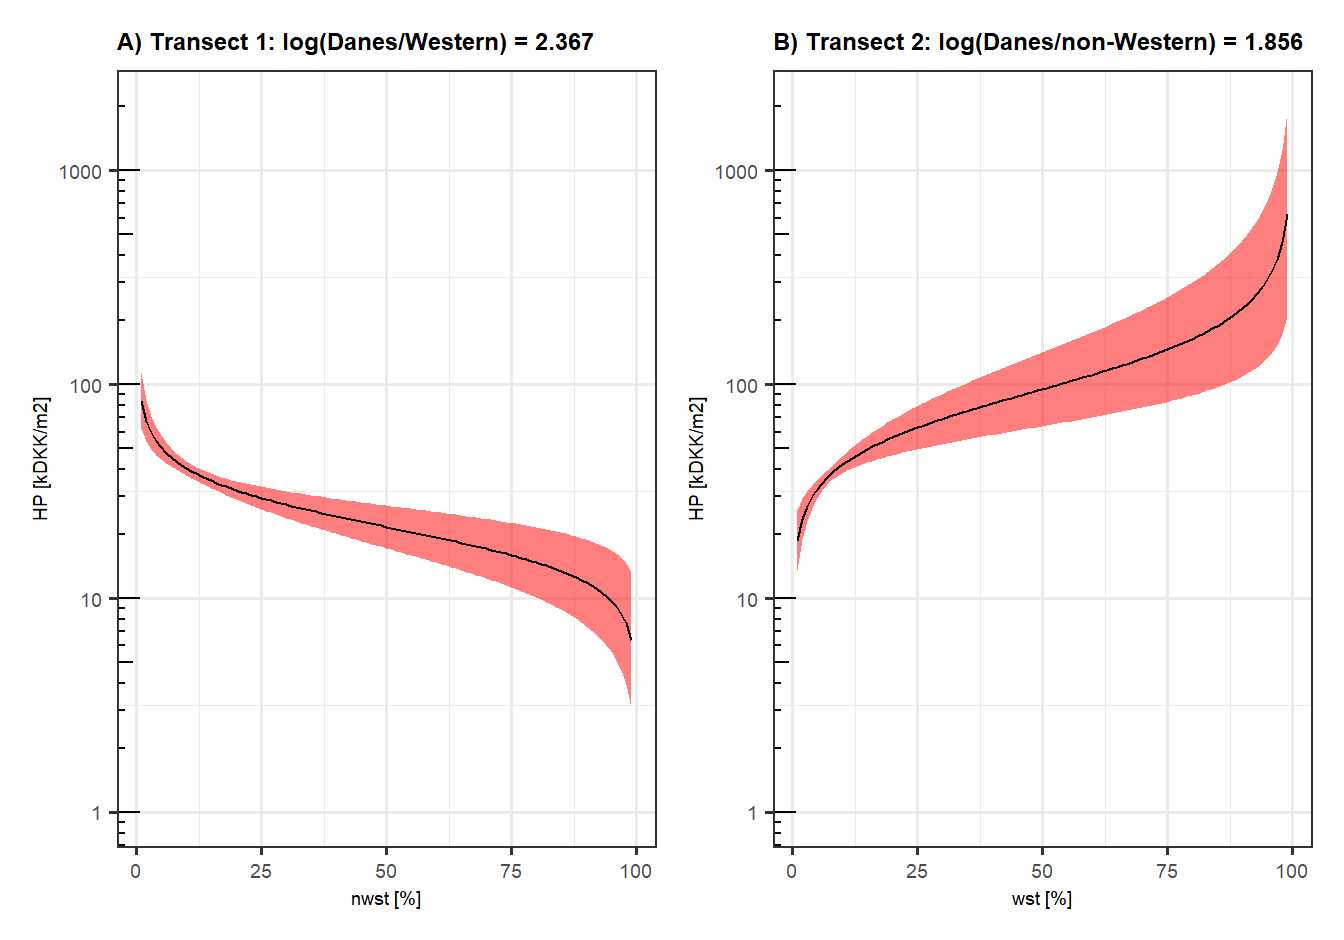
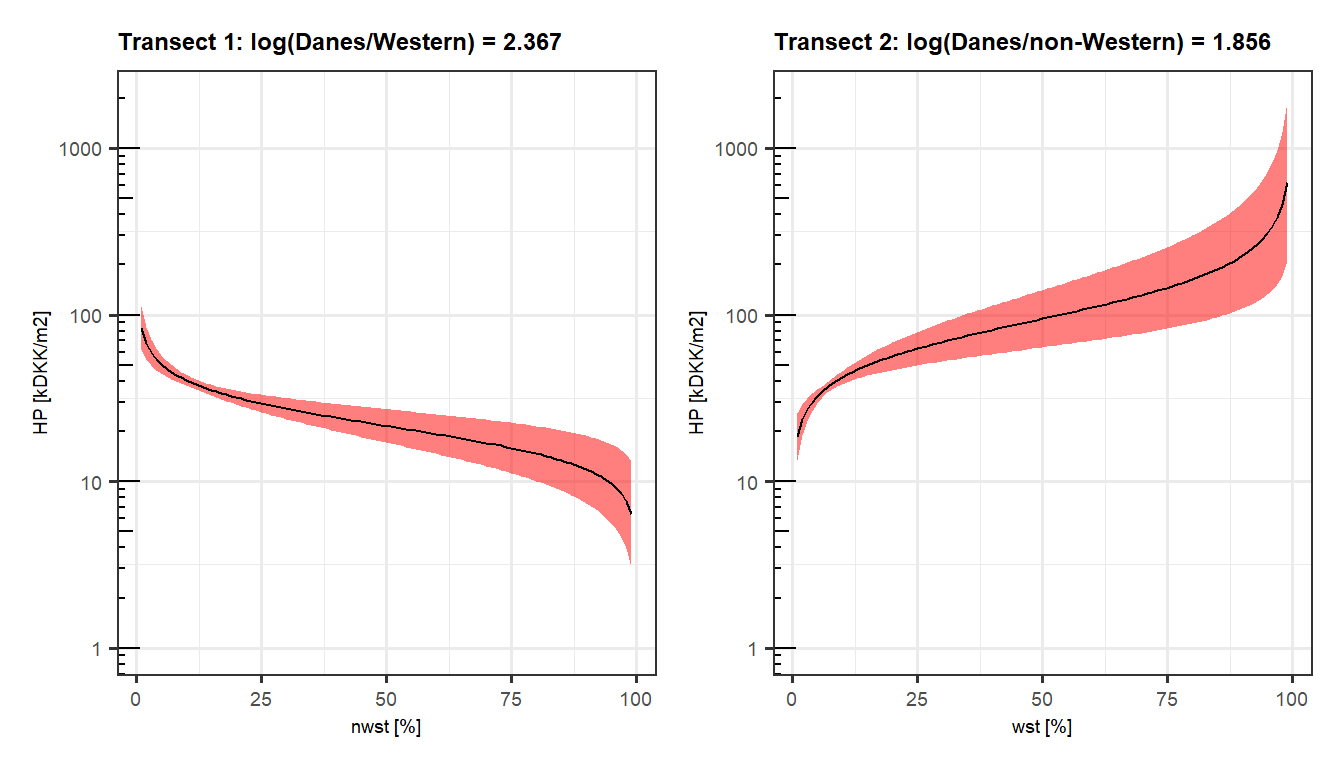
Update figure "Predicted median house prices at parish level with 95% CI"

diff --git a/CoDa_migr_cph.html b/CoDa_migr_cph.html
@@ -3000,7 +3000,7 @@ Ternary plot showing the predicted outcome for different compositions
               fill = &quot;red&quot;) +
   geom_line() +
   scale_y_log10(limits = c(1, 2000)) +
-  labs(title = &quot;A) Transect 1: log(Danes/Western) = 2.367&quot;,
+  labs(title = &quot;Transect 1: log(Danes/Western) = 2.367&quot;,
        x = &quot;nwst [%]&quot;,
        y = &quot;HP [kDKK/m2]&quot;) +
   annotation_logticks(sides = &quot;l&quot;)
@@ -3014,14 +3014,14 @@ p2 &lt;- tran %&gt;%
               fill = &quot;red&quot;) +
   geom_line() +
   scale_y_log10(limits = c(1, 2000)) +
-  labs(title = &quot;B) Transect 2: log(Danes/non-Western) = 1.856&quot;,
+  labs(title = &quot;Transect 2: log(Danes/non-Western) = 1.856&quot;,
        x = &quot;wst [%]&quot;,
        y = &quot;HP [kDKK/m2]&quot;) + 
   annotation_logticks(sides = &quot;l&quot;)
 
 p1 + p2</code></pre>
 <div class="figure" style="text-align: center">
[2 lines of base64/hex data omitted]
 <p class="caption">
 Predicted median house prices at parish level with 95% CI for transects 1 and 2
 </p>
